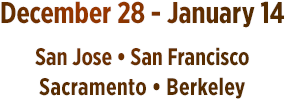
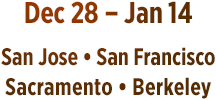
Update texts

diff --git a/2017/2017-11/2017-11-24/source/300x600.css b/2017/2017-11/2017-11-24/source/300x600.css
@@ -539,10 +539,10 @@
 }
 .text2 {
   background: url('./images/300x600_text2.png') no-repeat center center;
-  width: 285px;
+  width: 216px;
   height: 100px;
   top: 420px;
-  left: 8px;
+  left: 42px;
 
   -webkit-animation: fadeInDown 0.75s ease-in-out 5.5s forwards;
   -moz-animation: fadeInDown 0.75s ease-in-out 5.5s forwards;

diff --git a/2017/2017-11/2017-11-24/source/300x250.css b/2017/2017-11/2017-11-24/source/300x250.css
@@ -539,7 +539,7 @@
 }
 .text2 {
   background: url('./images/300x250_d_text2.png') no-repeat center center;
-  width: 278px;
+  width: 277px;
   height: 42px;
   top: 154px;
   left: 13px;

diff --git a/2017/2017-11/2017-11-24/source/300x250_mobile.css b/2017/2017-11/2017-11-24/source/300x250_mobile.css
@@ -539,7 +539,7 @@
 }
 .text2 {
   background: url('./images/300x250_m_text2.png') no-repeat center center;
-  width: 278px;
+  width: 277px;
   height: 42px;
   top: 153px;
   left: 13px;
